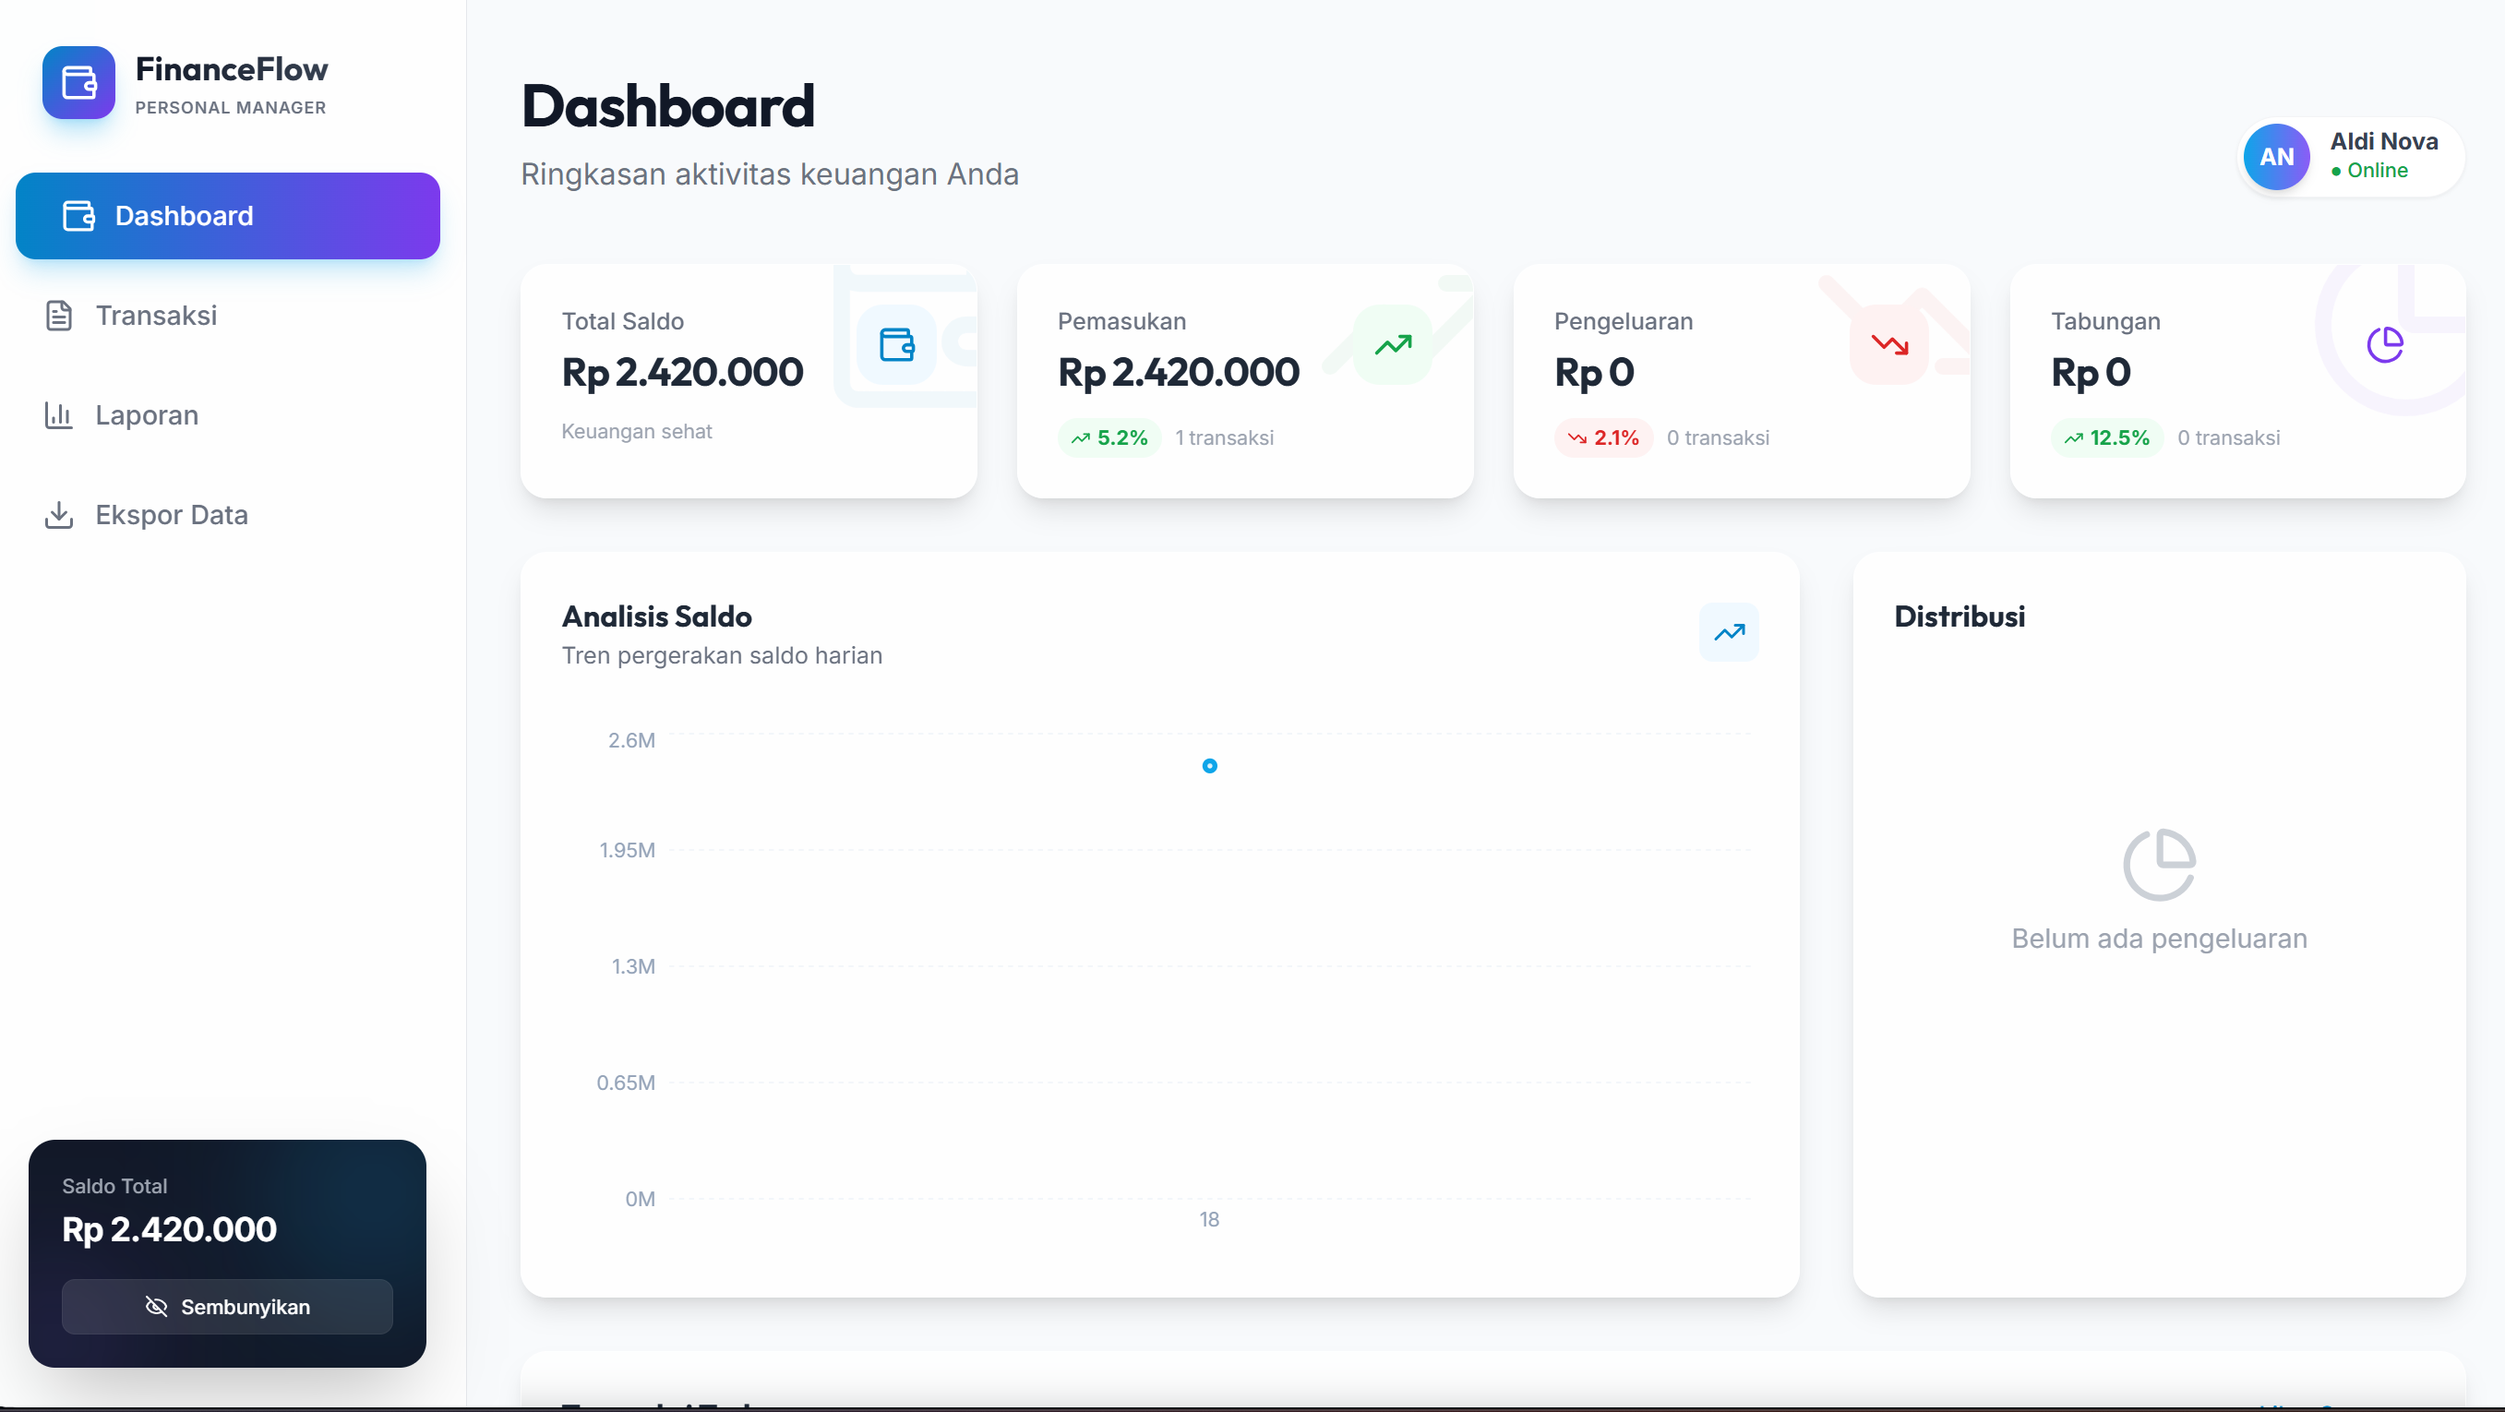
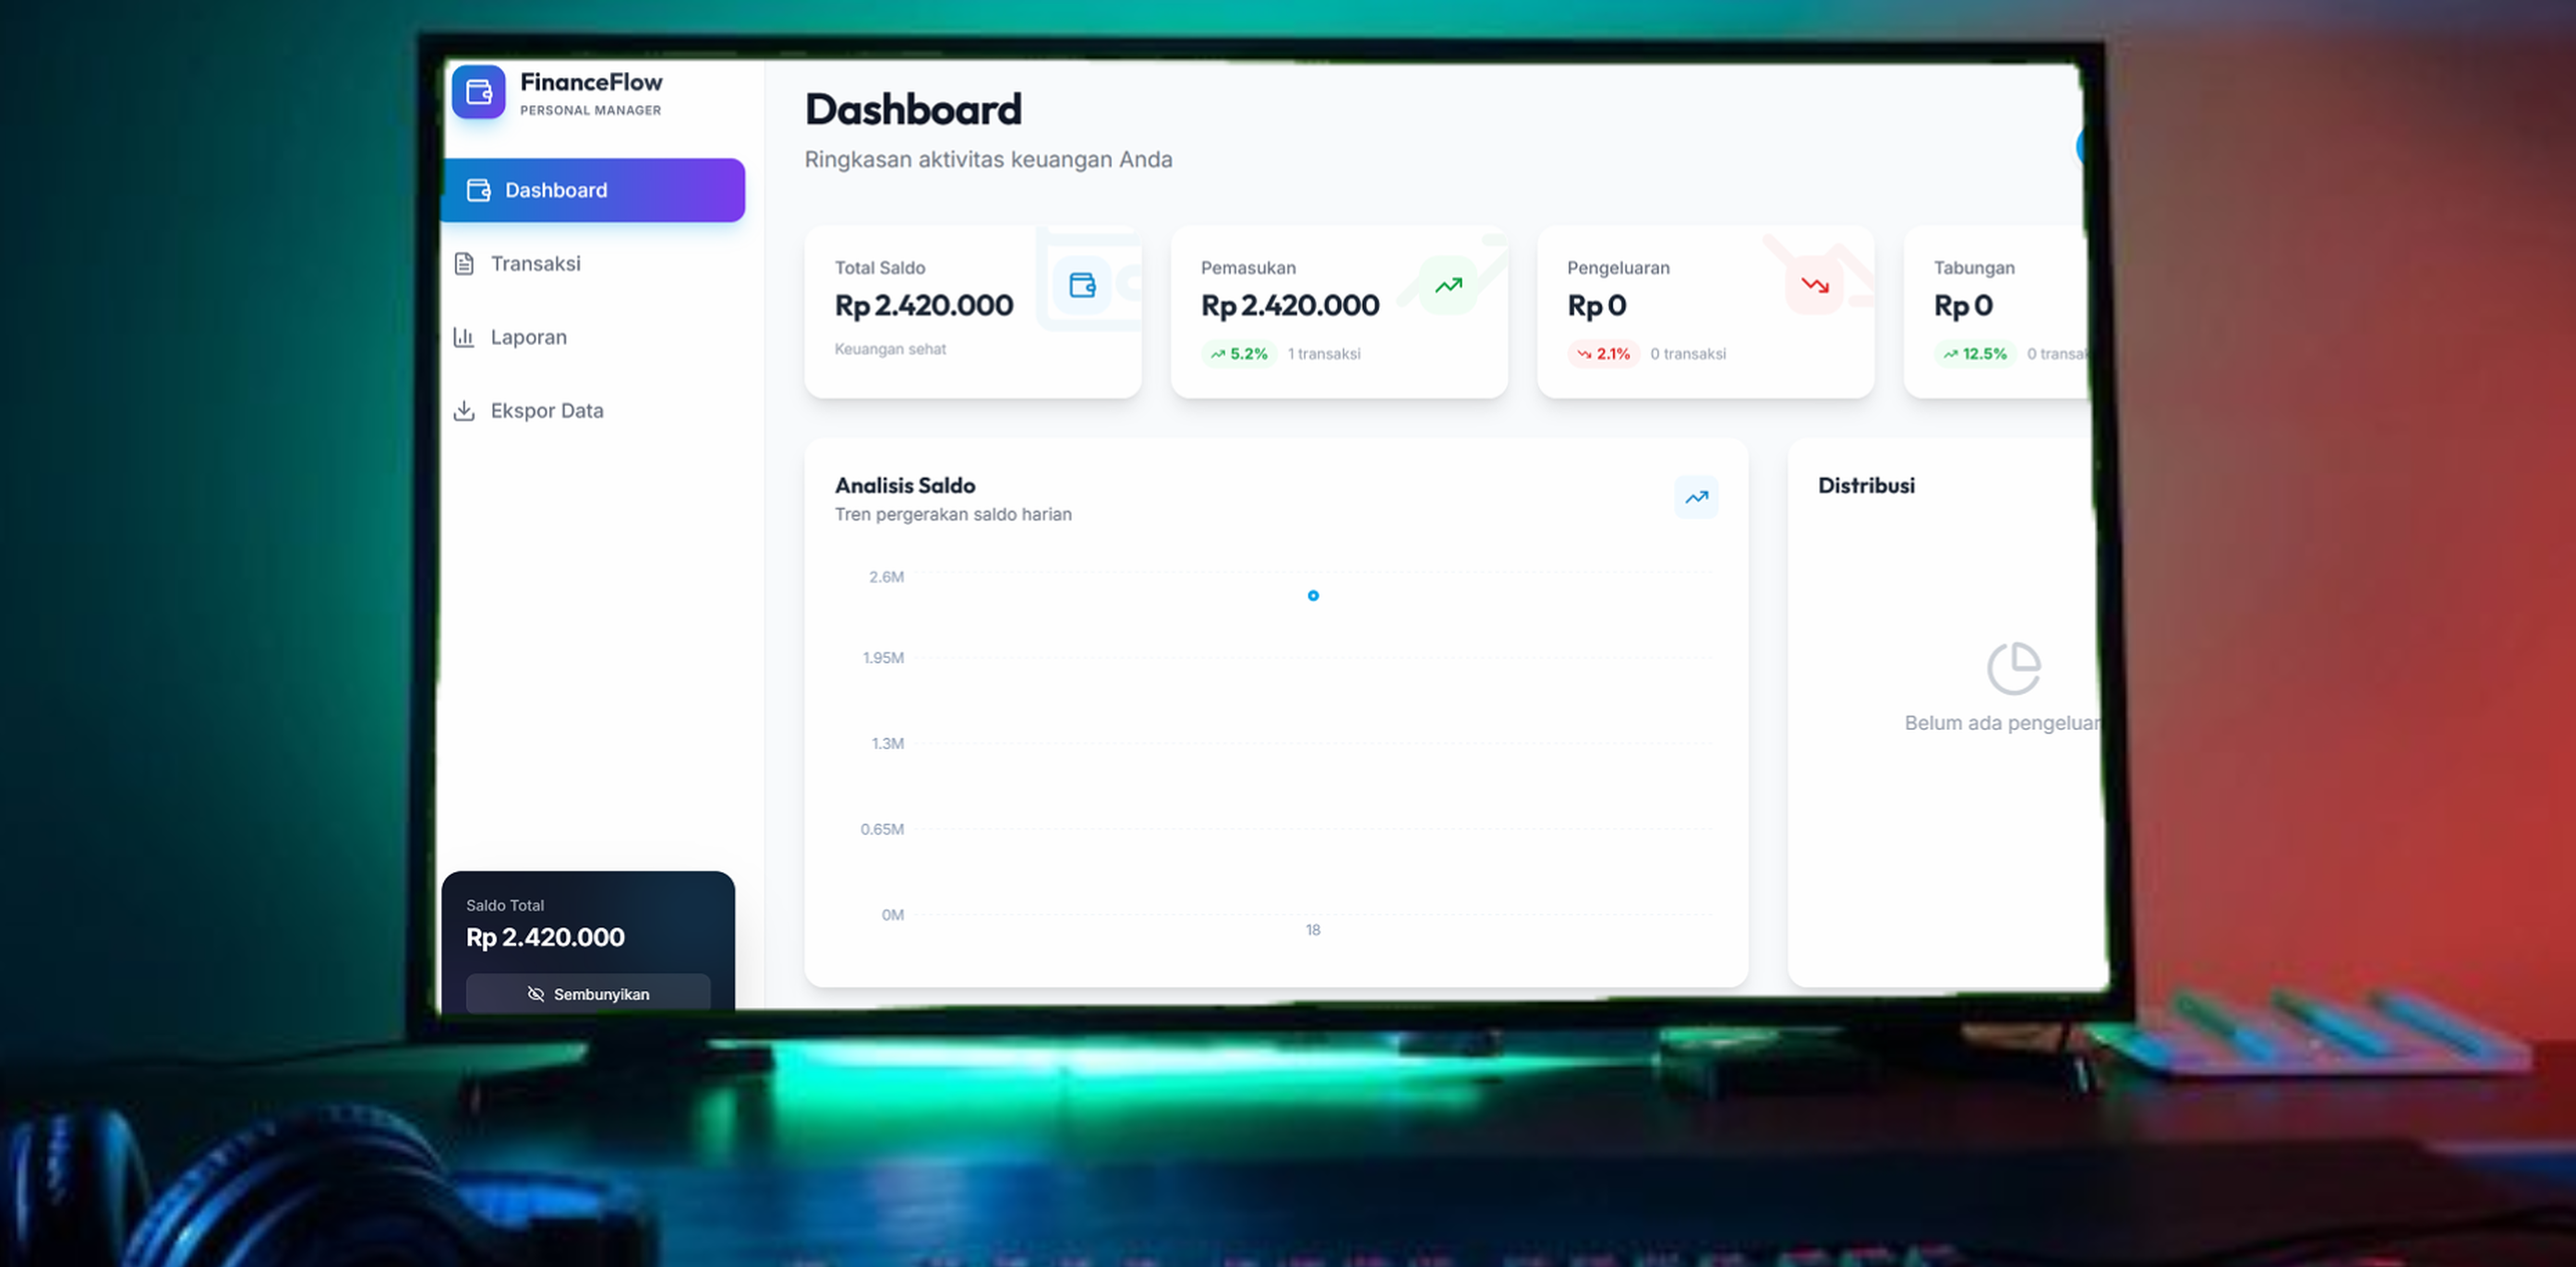
Update

diff --git a/src/data/content.js b/src/data/content.js
@@ -83,31 +83,6 @@ export const projects = [
   },
   {
     id: 3,
-    title: "Honey Vulnerability Scanner",
-    description: "Learning about web vulnerability scanning",
-    detailedDescription: "I am currently learning how to build a vulnerability scanner. At this stage, I am developing it as a single-file project, where the payloads, detection rules, attack types, logging system, and reporting mechanisms are all implemented within one file. This is my initial step in creating an amateur cybersecurity tool, primarily aimed at strengthening my logical thinking and understanding of security concepts. In the future, I plan to further refine, modularize, and expand its capabilities as my skills continue to grow.",
-    tech: ["Python", "Proxy Rotation", "Tor Integration", "Network Security"],
-    image: "/projects/honey.png",
-    images: [
-      "/projects/honey.png",
-      "/projects/honey1.png"
-    ],
-    highlights: ["Tool for learning and testing"],
-    detailedHighlights: [
-      "Advanced proxy management",
-      "Integration with Tor network",
-      "Stealth scanning techniques",
-      "Comprehensive web reconnaissance",
-      "Anonymity-focused design"
-    ],
-    year: "2025",
-    teamSize: "Individual Project",
-    category: "Vulnerability Scanner",
-    link: "#",
-    github: "https://github.com/hafourenai/hafourenai-webscan-just4me"
-  },
-  {
-    id: 4,
     title: "SnapTik",
     description: "Tiktok Downloader",
     detailedDescription: "SnapTik is a Tiktok downloader that allows users to download Tiktok videos and save them to their device.",
@@ -127,51 +102,7 @@ export const projects = [
     github: "https://github.com/hafourenai/SnapTik-Hon"
   },
   {
-    id: 5,
-    title: "Hafourenai Webscan",
-    description: "A web vulnerability scanner built with Python.",
-    detailedDescription: "This project is an enhanced version of my previous tool, with greater use of AI to modularize and restructure the code. I expanded the payload collection and separated them into dedicated files that can be imported and executed as needed. The scanner now injects payloads individually into the target for more controlled testing. I also improved the Tor integration, which was previously unstable, and implemented more cautious request-handling especially when sending payloads to ensure safer and more controlled execution.",
-    tech: ["Python", "Proxy Rotation", "Web Security","Tor Integration"],
-    image: "/projects/wsjsfm.png",
-    images: [
-      "/projects/wsjsfm1.png",
-      "/projects/wsjsfm2.png"
-    ],
-    highlights: ["Web Vulnerability Scanner"],
-    detailedHighlights: [
-      "Web Vulnerability Scanner",
-    ],
-    year: "2025",
-    teamSize: "Individual Project",
-    category: "Vulnerability Scanner",
-    link: "#",
-    github: "https://github.com/hafourenai/webscanjust4me"
-  },
-  {
-    id: 6,
-    title: "Belajar Seru - Hiperaktif",
-    description: "An interactive learning platform for active learners.",
-    detailedDescription: "Belajar Seru - Hiperaktif is an interactive learning platform designed to engage active learners through gamified content and dynamic learning experiences.",
-    tech: ["Flask", "Vanilla JavaScript", "CSS"],
-    image: "/projects/ha2.png",
-    images: [
-      "/projects/ha.png",
-      "/projects/ha1.png",
-      "/projects/ha3.png",
-    ],
-    highlights: ["Interactive Learning Platform"],
-    detailedHighlights: [
-      "Gamified Learning Content",
-      "Dynamic Learning Experiences",
-    ],
-    year: "2025",
-    teamSize: "Individual Project",
-    category: "Learning Platform",
-    link: "https://hiperaktif-production.up.railway.app/",
-    github: "https://github.com/hafourenai/Hiperaktif"
-  },
-  {
-    id: 7,
+    id: 4,
     title: "Finance Manager",
     description: "A finance management system for tracking expenses and income.",
     detailedDescription: "Learn how to make a finance management system using Laravel, PHP, MySQL, and CSS.",

diff --git a/src/contexts/ThemeContext.jsx b/src/contexts/ThemeContext.jsx
@@ -12,18 +12,16 @@ export const useTheme = () => {
 
 export const ThemeProvider = ({ children }) => {
   const [theme, setTheme] = useState(() => {
-    // Check localStorage or default to light
     const savedTheme = localStorage.getItem('theme');
     return savedTheme || 'light';
   });
 
   useEffect(() => {
-    // Apply theme to document
+
     const root = document.documentElement;
     root.classList.remove('light', 'dark');
     root.classList.add(theme);
     
-    // Save to localStorage
     localStorage.setItem('theme', theme);
   }, [theme]);
 

diff --git a/src/components/Projects.jsx b/src/components/Projects.jsx
@@ -22,7 +22,7 @@ const Projects = () => {
             Featured Projects
           </h2>
           <p className="text-text-secondary text-lg max-w-2xl mx-auto">
-            Security tools and analysis projects demonstrating practical cyber security expertise
+            Amateur Security Tools. Explore my latest work in web security and development, showcasing my passion for creating innovative solutions and learning new technologies.
           </p>
         </motion.div>
 

diff --git a/src/components/AllProjects.jsx b/src/components/AllProjects.jsx
@@ -36,7 +36,7 @@ const AllProjects = () => {
             All Projects
           </h1>
           <p className="text-lg text-text-secondary max-w-2xl mx-auto">
-            Complete collection of my cyber security projects and tools
+            Complete collection of my projects and tools
           </p>
         </motion.div>
 
